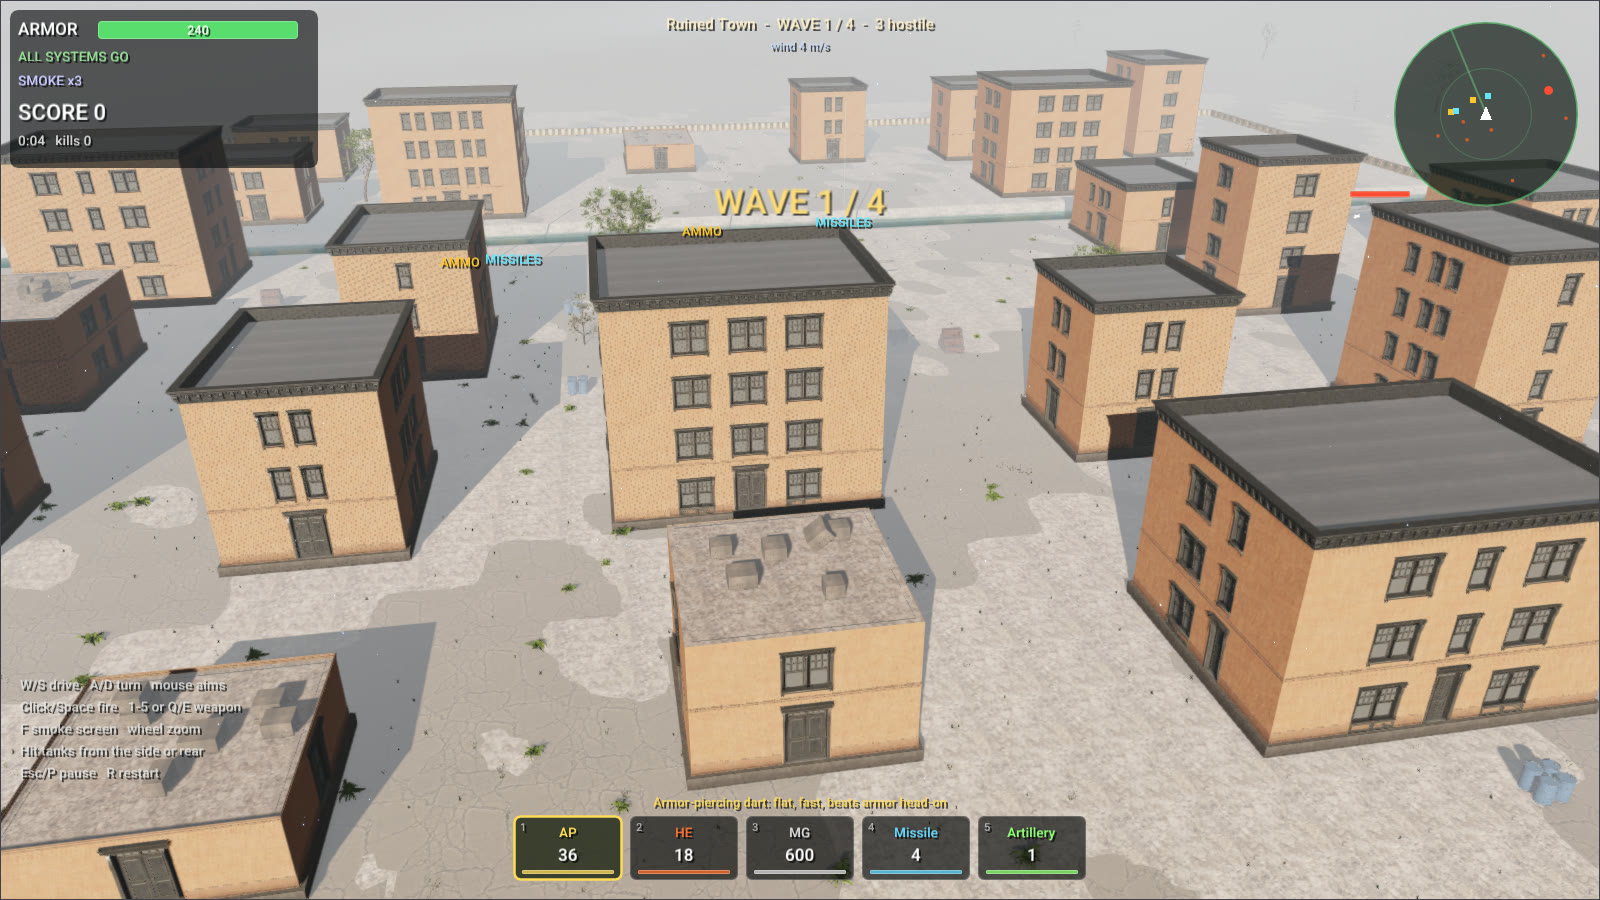
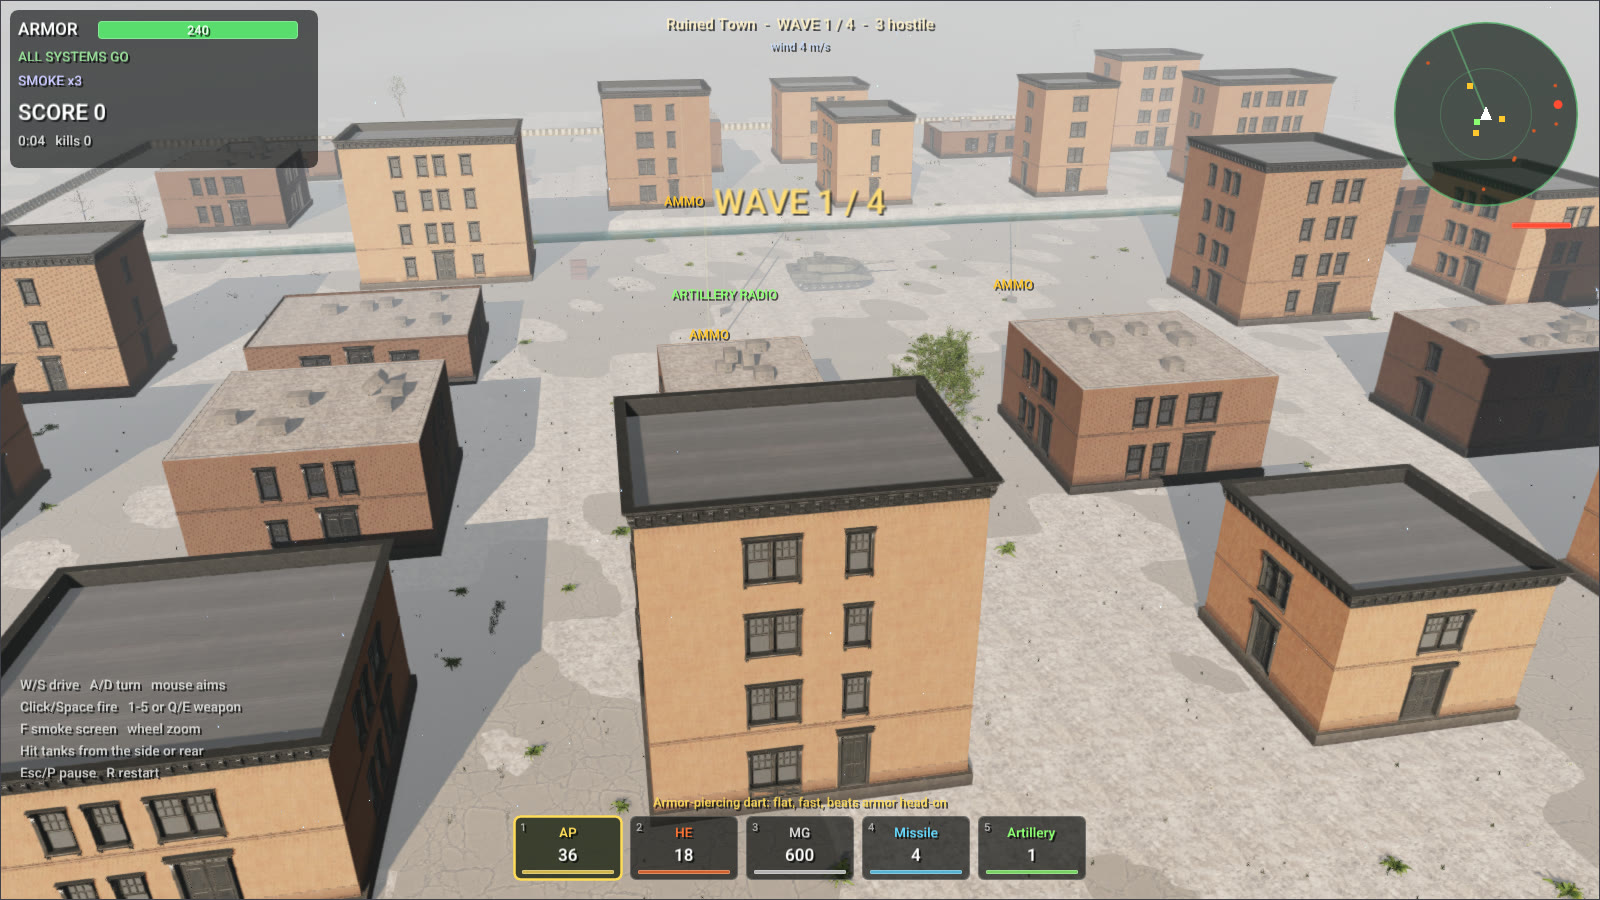
Tank Survival: weathered town blocks, brighter snow sky, rock on hills
- Each apartment block is weathered to a shade of its own through the
  batches' second color and per-instance weights; burnt-out blocks are
  darkened with soot.
- Over snow the sky is brightened with the ground (Frozen Ridge's
  overcast sky no longer shows as a dark wedge between white ridges),
  and Frozen Ridge's air is hazier.
- Rock shows through on the steep faces of the hills around the arenas.

diff --git a/wasm/src/tank_survival/buildings.hpp b/wasm/src/tank_survival/buildings.hpp
@@ -2,8 +2,8 @@
 // The town's apartment blocks, assembled from Poly Haven's modular urban apartments facade (CC0)
 // as in the rayrai city example: corner pieces wrap each corner, 3 m bays of windows (and one door
 // on the ground floor) fill the faces, and base, dado, cornice and crown trims run around them.
-// Dark walls behind the glass read as unlit rooms. Burnt-out blocks have lost their crown and carry
-// rubble on their roofs.
+// Dark walls behind the glass read as unlit rooms. Each block is weathered to a shade of its own;
+// burnt-out blocks have lost their crown, carry rubble on their roofs and are darkened with soot.
 
 #include <map>
 
@@ -16,7 +16,8 @@ struct Lot {
   double ground;          // the levelled ground under it
   int floors;
   bool ruined;
-  int pattern;  // the window columns' pattern
+  int pattern;     // the window columns' pattern
+  float weathering;  // 0 keeps the plaster's color, 1 greys and darkens it (soot on burnt-out blocks)
 };
 
 class Town {
@@ -33,9 +34,10 @@ class Town {
     for (const auto& lot : lots) facades(lot, batches);
     for (auto& [module, instances] : batches) {
       const std::string name = "town " + module + " " + std::to_string(revision_++);
-      auto visual = viewer.addInstancedVisuals(name, raisim::Shape::Mesh, glm::vec3(1), glm::vec4(1), glm::vec4(1),
-                                               folder_ + "modules/" + module + ".gltf", true);
+      auto visual = viewer.addInstancedVisuals(name, raisim::Shape::Mesh, glm::vec3(1), glm::vec4(1),
+                                               glm::vec4(0.18f, 0.2f, 0.26f, 1.f), folder_ + "modules/" + module + ".gltf", true);
       visual->addInstances(instances);
+      visual->setUseMeshColor(false);
       visual->setCastsShadows(true);
       names_.push_back(name);
     }
@@ -68,6 +70,7 @@ class Town {
     instance.position = {float(face.x + face.tx * (s + 3.0)), float(face.y + face.ty * (s + 3.0)), float(lot.ground + z)};
     instance.orientation = {float(std::cos(0.5 * face.yaw)), 0.f, 0.f, float(std::sin(0.5 * face.yaw))};
     instance.scale = glm::vec3(1.f);
+    instance.colorWeight = lot.weathering;
     batches[module].push_back(instance);
   }
 

diff --git a/wasm/src/tank_survival/scene.hpp b/wasm/src/tank_survival/scene.hpp
@@ -58,9 +58,10 @@ inline void configureRendering(Viewer& viewer, const LevelSpec& level, int quali
   weather.lightningRate = level.lightning;
   weather.fogColor = level.fogColor;
   viewer.setWeatherSettings(weather);
-  // The sky behind the scene at its own brightness; the weather would dim it twice for a low sun.
+  // The sky behind the scene at its own brightness; the weather would dim it twice for a low sun. Over
+  // snow, which reflects most of the light, the sky is brightened to match, as the eye adapts.
   const auto sky = viewer.generateWeatherSkyEnvironment(256, 32, false);
-  viewer.setEnvironmentBackground(sky.environmentMap, 1.0f);
+  viewer.setEnvironmentBackground(sky.environmentMap, 1.0f + 0.9f * level.snow);
   const float azimuth = glm::radians(level.sunAzimuth), elevation = glm::radians(level.sunElevation);
   auto& sun = viewer.getLight();
   sun.type = raisin::LightType::DIRECTIONAL;
@@ -272,7 +273,9 @@ class TerrainVisuals {
         v.Normal = glm::normalize(glm::vec3(float(-(heightAt(2 * i + 1, 2 * j) - heightAt(2 * i - 1, 2 * j)) / (2 * d)),
                                             float(-(heightAt(2 * i, 2 * j + 1) - heightAt(2 * i, 2 * j - 1)) / (2 * d)), 1.f));
         v.TexCoords = glm::vec2(float(x / tiles_[0]), float(y / tiles_[0]));
-        v.Color = glm::vec4(groundTint(x, y), 1.f);
+        // Rock shows through on the steep faces of the hills around the arena.
+        const float steep = glm::smoothstep(0.99f, 0.9f, v.Normal.z);
+        v.Color = glm::vec4(groundTint(x, y) * glm::mix(glm::vec3(1.f), glm::vec3(0.5f, 0.47f, 0.45f), 0.85f * steep), 1.f);
         index[k] = int(vertices.size());
         vertices.push_back(v);
         return unsigned(index[k]);

diff --git a/wasm/src/tank_survival/game.hpp b/wasm/src/tank_survival/game.hpp
@@ -708,7 +708,7 @@ class Game {
         if (riverDistance(Terrain::Town, x, y) < 0.5 * ly + riverHalfWidth(Terrain::Town) + 3.0) continue;
         Lot lot{x - 0.5 * lx, y - 0.5 * ly, x + 0.5 * lx, y + 0.5 * ly, 0.0,
                 ruined ? int(uniform(random_, 1.0, 2.999)) : int(uniform(random_, 2.0, 4.999)), ruined,
-                int(uniform(random_, 0.0, 3.999))};
+                int(uniform(random_, 0.0, 3.999)), float(ruined ? uniform(random_, 0.8, 0.95) : uniform(random_, 0.0, 0.55))};
         lot.ground = levelRectangle(heights, samples, lot.x0, lot.y0, lot.x1, lot.y1);
         lots.push_back(lot);
         const double top = Town::height(lot);

diff --git a/wasm/src/tank_survival/levels.hpp b/wasm/src/tank_survival/levels.hpp
@@ -57,7 +57,7 @@ inline const std::vector<LevelSpec>& levels() {
        false},
       {"Frozen Ridge", "Snow ridges in the late afternoon",
        "Mixed armor and mortars on high ground. Use the ridges as cover and smoke when you cross open snow.",
-       Terrain::Ridges, {-6.0, 5.0, 0.0}, 255.f, 17.f, 0.3f, 2200.f, 3.0f, 0.85f, 0.f, 0.f, {0.66f, 0.64f, 0.76f}, 1.05, 0.95, {0, 0, 0},
+       Terrain::Ridges, {-6.0, 5.0, 0.0}, 255.f, 17.f, 0.3f, 2200.f, 6.0f, 0.85f, 0.f, 0.f, {0.66f, 0.64f, 0.76f}, 1.05, 0.95, {0, 0, 0},
        {0, 0, 0}, 0.0,
        {{{Role::Medium, 3}, {Role::Scout, 2}},
         {{Role::Heavy, 2}, {Role::Artillery, 2}},

diff --git a/docs/sections/changelog/v2.13.md b/docs/sections/changelog/v2.13.md
@@ -32,7 +32,7 @@
   `rayrai_add_web_app()` and the new `raisim_web_add_license()` place the license and notices next to a program, and the generated page shows the notice.
 - `rayrai_add_web_app()` takes `ASSETS` (files and folders the page downloads into the program's file system before `main()`, each fetched and cached on its own, so a game's assets need not fit in one file), and `DESCRIPTION`, `URL` and `IMAGE`, which write the Open Graph and Twitter Card tags that make a shared link show as a card with a picture.
 - The page runtime of `rayrai_add_web_app()` downloads the program's WebAssembly and its assets together, with a progress bar, and keeps the shader programs its WebGPU backend compiles in the browser (Cache Storage, per build of the program): a second visit to Tank Survival reaches smooth play about 40% sooner. Assets that arrive after the program is instantiated go straight into its file system. The asset manifest holds the WebAssembly's size, so the bar is exact when the host compresses it, and a page whose sizes are unknown shows an indeterminate bar.
-- Tank Survival's town is built from Poly Haven's modular apartment facades and its fortress has crenellated walls and towers; it is an example of its own in the docs ([Tank Survival](../examples/rayrai/rayrai_tank_survival.md)).
+- Tank Survival's town is built from Poly Haven's modular apartment facades, each block weathered to a shade of its own and the burnt-out ones darkened with soot, and its fortress has crenellated walls and towers; rock shows on the steep hills around the arenas, and the sky over Frozen Ridge's snow is no longer darker than the ground; it is an example of its own in the docs ([Tank Survival](../examples/rayrai/rayrai_tank_survival.md)).
 - Tank Survival shows a loading screen with the stage it is in, draws grass farther (60 to 170 m by render quality) and keeps finer tree and shrub meshes at a distance, and builds its levels a quarter faster with the same result.
 - Tank Survival is playable on the website, at [raisim.com/games/tank-survival](https://raisim.com/games/tank-survival/), and listed with the web tools. Documentation pages also describe themselves to the sites links to them are shared on: each has its own card title, description and address.
 - Fixed a browser crash ("Rayrai texture is unbound: additionalShadowAtlasMap"): shaders declare the shadow maps of additional lights even while none shines, and when the texture left on such a unit had been deleted, the WebGPU layer refused the draw. It now binds a neutral texture to them while the draw has no additional light, as it does for other maps a draw leaves unsampled.
